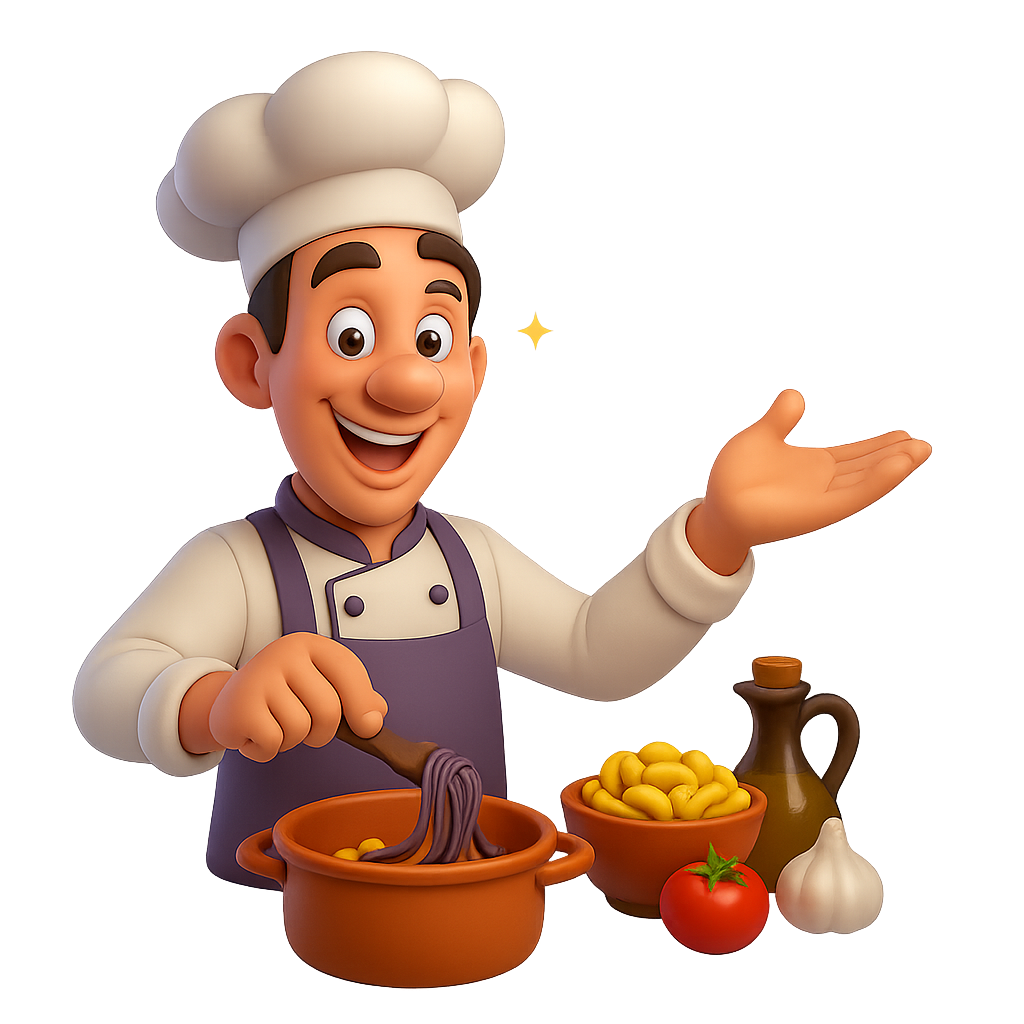
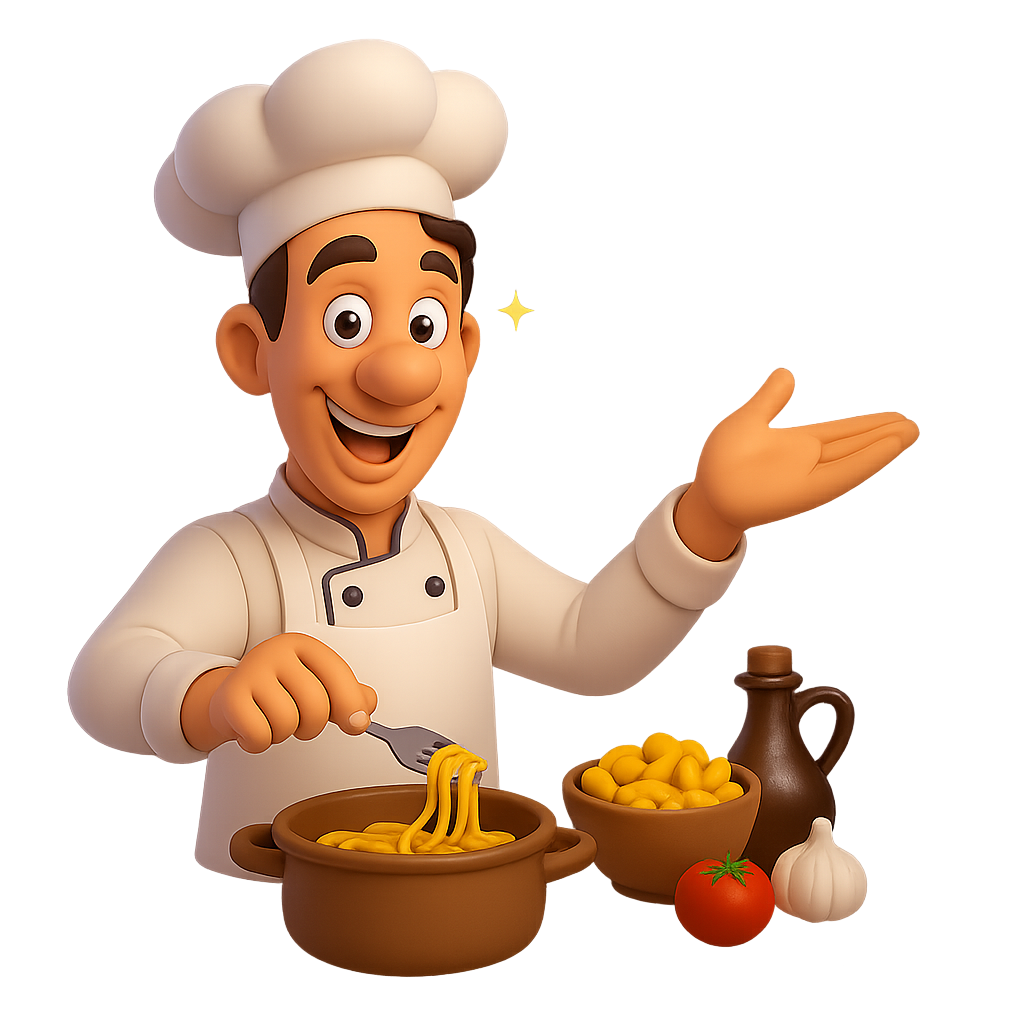
updated app name

diff --git a/Mobile/constants/colors.js b/Mobile/constants/colors.js
@@ -98,4 +98,4 @@ const coffeeTheme = {
 };
 
 // 👇 change this to switch theme
-export const COLORS = THEMES.purple;
+export const COLORS = THEMES.forest;
